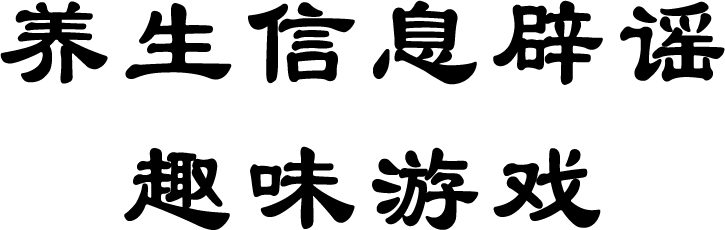
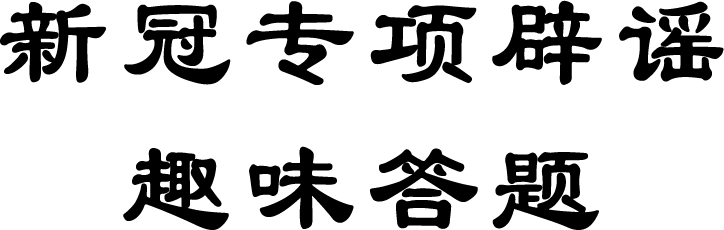
江姗姗是猪吗不是

diff --git a/前端/R&B/pages/index/index.vue b/前端/R&B/pages/index/index.vue
@@ -39,18 +39,20 @@
 							<text class="text-white text-xl text-bold"><br/>......</text>
 							<text class="text-black text-xl text-bold">软件与微电子学院</text>
 							<text class="text-white text-xl text-bold"><br/><br/>......</text>
+							<!-- &nbsp;&nbsp;&nbsp;&nbsp;&nbsp;&nbsp;&nbsp;本平台面向的受众为中老年群体，内容为养生方向的谣言鉴别和辟除，其中分为搜索界面，谣言列表界面和辟谣问答游戏三个界面，目前已实现基本的所有功能，后期将不断对数据使用自然语言处理进行获取分类，希望得到各位用户的认可～ -->
+							<!-- &nbsp;&nbsp;&nbsp;&nbsp;&nbsp;&nbsp;&nbsp;如果您对我们的网站还满意的话，就在我们的 GitHub 点个 ⭐ 叭～   つ♡⊂ -->
 							<text class="text-black text-xl">
 								本平台由北京大学软件与微电子学院王可欣团队搭建而成，团队成员如下：
 															
 								&nbsp;&nbsp;&nbsp;&nbsp;&nbsp;&nbsp;&nbsp;王可欣  周慧敏  程玄
 								&nbsp;&nbsp;&nbsp;&nbsp;&nbsp;&nbsp;&nbsp;陈鸿凯  江姗姗  徐康
 								
-								&nbsp;&nbsp;&nbsp;&nbsp;&nbsp;&nbsp;&nbsp;本平台面向的受众为中老年群体，内容为养生方向的谣言鉴别和辟除，其中分为搜索界面，谣言列表界面和辟谣问答游戏三个界面，目前已实现基本的所有功能，后期将不断对数据使用自然语言处理进行获取分类，希望得到各位用户的认可～
+								&nbsp;&nbsp;&nbsp;&nbsp;&nbsp;&nbsp;&nbsp;本平台为新型冠状病毒肺炎（ Corona Virus Disease 2019，COVID-19 ）科普平台，内容为有关本次新冠肺炎的谣言鉴别和辟除，其中分为搜索界面，谣言列表界面和辟谣问答游戏三个界面，目前已实现基本的所有功能，后期将不断对数据使用自然语言处理进行获取分类，希望得到各位用户的认可～
 								
-								&nbsp;&nbsp;&nbsp;&nbsp;&nbsp;&nbsp;&nbsp;如果您对我们的网站还满意的话，就在我们的 GitHub 点个 ⭐ 叭～   つ♡⊂
+								&nbsp;&nbsp;&nbsp;&nbsp;&nbsp;&nbsp;&nbsp;感谢您的浏览～   つ♡⊂
 								
 								&nbsp;&nbsp;&nbsp;&nbsp;&nbsp;&nbsp;&nbsp;👍 👍 👍 👍 👍 👍 👍
-								&nbsp;&nbsp;&nbsp;&nbsp;&nbsp;&nbsp;&nbsp;———————————
+								&nbsp;&nbsp;&nbsp;&nbsp;&nbsp;&nbsp;&nbsp;——————————
 								
 							</text>
 							<text class="text-white text-xl text-bold"><br/>.</text>

diff --git a/前端/R&B/pages/quiz/quiz.vue b/前端/R&B/pages/quiz/quiz.vue
@@ -7,7 +7,7 @@
 				</text>
 			</block>
 		</cu-custom> -->
-		<hxNavbar :fixed="true" color="#ffffff" :backgroundColor="[80,2,0]" title="养生信息辟谣趣味答题" :back="false">
+		<hxNavbar :fixed="true" color="#ffffff" :backgroundColor="[80,2,0]" title="新冠专项答题" :back="false">
 		</hxNavbar>
 		
 			<!--欢迎页面-->
@@ -168,7 +168,7 @@ import uniPopup from "@/components/uni-popup/uni-popup.vue"
 				showWelcome: true,//显示欢迎界面
 				subjectIndex: 0,//跳转索引
 				swiperHeight: '1600upx',//
-				title: '新冠病毒专项答题',
+				title: '辟谣管家',
 				quizList:[],
 				fullQuizList:[],
 				//当前题目的选项列表
